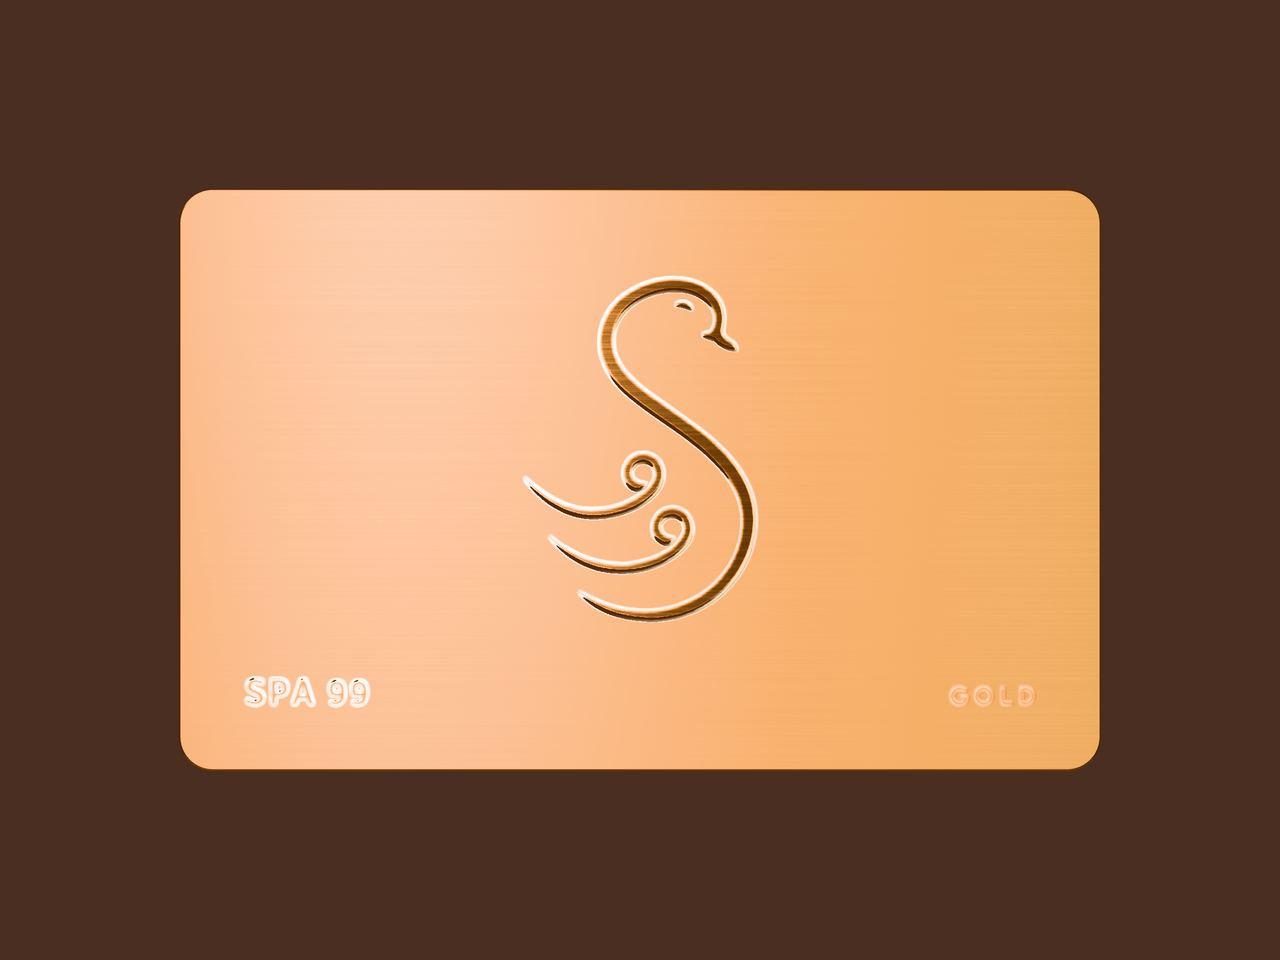
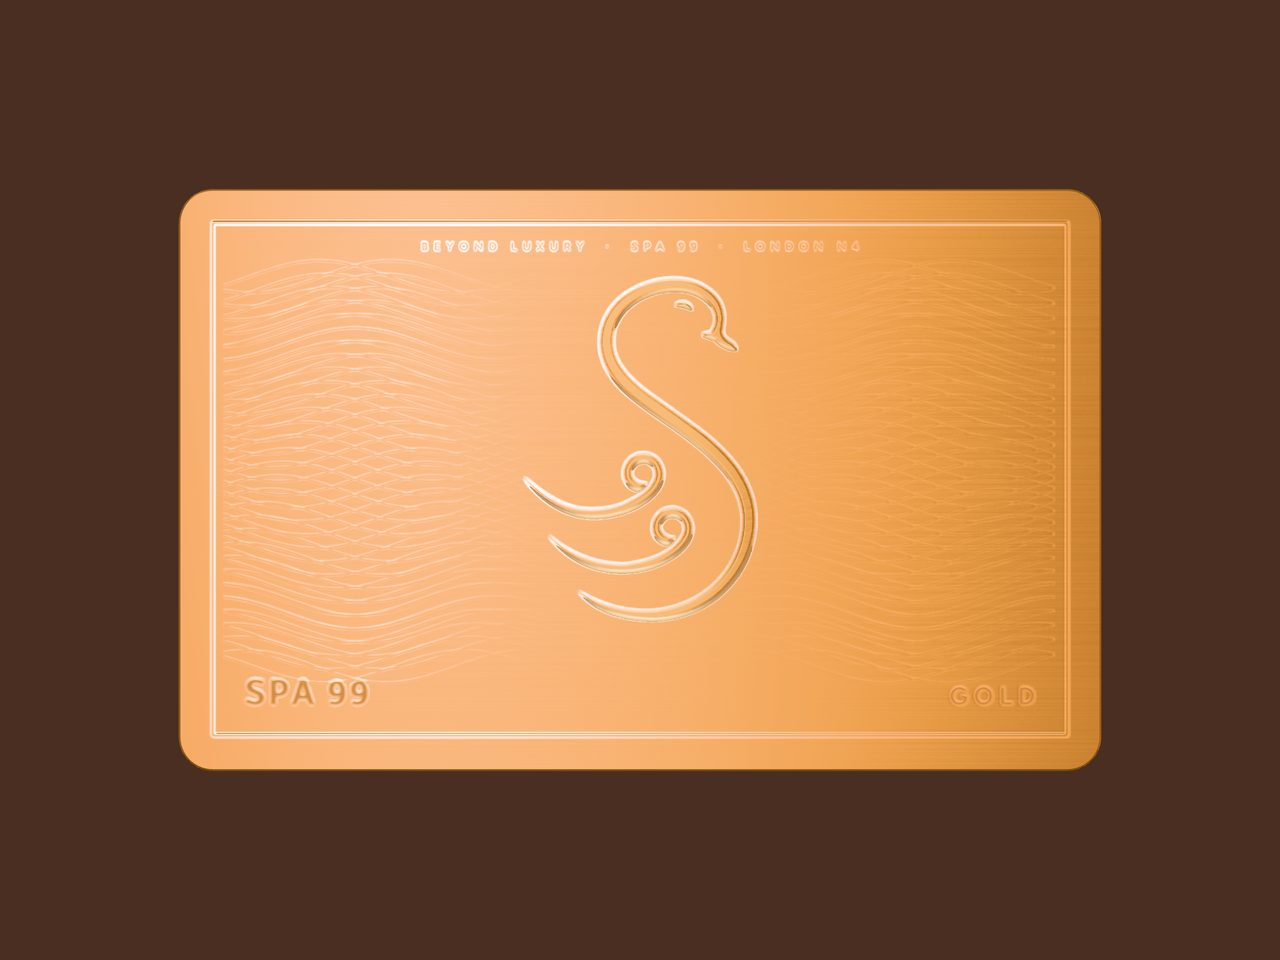
Gold Card polish: never clipped, brighter at every angle, guilloche, inset groove, micro text

Changed region(s): [[0.125, 0.1875, 0.875, 0.8125]]

diff --git a/common/static/common/js/gold-card-3d.js b/common/static/common/js/gold-card-3d.js
@@ -13,6 +13,7 @@ import * as THREE from '../vendor/three/three.module.min.js';
 const W = 85.6, H = 54, R = 3.18, BEV = 0.18, DEPTH = 0.44;       // millimetres: ISO ID-1
 const FW = 1024, FH = 646, BW = 512, BH = 323;                    // face and back map sizes
 const D2R = Math.PI / 180;
+const WALL = 0.8;                                                 // brightness of the studio walls (the floor of the card's light)
 const idle = (fn) => new Promise((resolve) => (window.requestIdleCallback ? requestIdleCallback(() => resolve(fn()), { timeout: 800 }) : setTimeout(() => resolve(fn()), 0)));
 
 function roundedRect(w, h, r) {
@@ -123,6 +124,33 @@ function roughCanvas(w, h, base, { smooth, rough, smoothV, roughV, dark = 0 }) {
   return c;
 }
 
+
+/** Fine detail on the face, in mm on a face of `ppm` px per mm: guilloche (crossing fine waves, only in two wings either side of the swan),
+ *  a groove 3 mm in from the edge, and micro text along the top. The same drawing is in guilloche.svg for the CSS card. */
+function detail(ctx, ppm, { wings, groove, micro }) {
+  const fw = W - 2 * BEV, fh = H - 2 * BEV;
+  if (wings) {
+    ctx.lineWidth = 0.1 * ppm;
+    for (let fam = 0; fam < 2; fam++) for (let k = 0; k < 30; k++) {
+      ctx.beginPath();
+      for (let x = 4; x <= fw - 4; x += 0.5) {
+        const y = 8 + k * 1.25 + 1.5 * Math.sin((x / 26) * Math.PI * 2 + k * 0.16 * (fam ? -1 : 1) + fam * 1.6);
+        x === 4 ? ctx.moveTo(x * ppm, y * ppm) : ctx.lineTo(x * ppm, y * ppm);
+      }
+      ctx.stroke();
+    }
+  }
+  if (groove) {
+    ctx.lineWidth = 0.34 * ppm;
+    const r = (R - BEV - 3) * ppm, x = 3 * ppm, y = 3 * ppm, w = (fw - 6) * ppm, h = (fh - 6) * ppm;
+    ctx.beginPath(); ctx.roundRect(x, y, w, h, Math.max(r, 1)); ctx.stroke();
+  }
+  if (micro) {
+    ctx.setTransform(1, 0, 0, 1, 0, 0); ctx.textBaseline = 'alphabetic'; ctx.font = `500 ${1.15 * ppm}px Figtree`;
+    track(ctx, 'BEYOND LUXURY  \u00B7  SPA 99  \u00B7  LONDON N4', fw / 2 * ppm, 5.6 * ppm, 0.42 * 1.15 * ppm, 'center');
+  }
+}
+
 /* ---------- the module ---------- */
 
 export function create(mount, { gsap, tokens, card }) {
@@ -154,10 +182,18 @@ export function create(mount, { gsap, tokens, card }) {
       ctx.font = `500 ${(1.6 / 0.7) * ppm}px Figtree`;
       track(ctx, 'GOLD', FW - 6 * ppm, FH - 6 * ppm, 0.24 * (1.6 / 0.7) * ppm, 'right');
     }));
+    const fine = await idle(() => {
+      const fw = W - 2 * BEV, wing = (x, y) => 1 - Math.max(0, Math.min(1, (x - 0.24 * fw) / (0.17 * fw))) * Math.max(0, Math.min(1, (0.76 * fw - x) / (0.17 * fw)));   // 1 in the wings, 0 behind the swan
+      const lines = mask(FW, FH, (ctx) => detail(ctx, ppm, { wings: true })), edge = mask(FW, FH, (ctx) => detail(ctx, ppm, { groove: true, micro: true }));
+      for (let i = 0; i < lines.length; i++) lines[i] *= wing(((i % FW) / ppm), 0);
+      return { lines, edge };
+    });
     const height = await idle(() => {
-      const raw = new Float32Array(swanMask.length);
-      for (let i = 0; i < raw.length; i++) raw[i] = swanMask[i] - 0.22 * textMask[i];
-      return blur(raw, FW, FH, 2);
+      const raw = new Float32Array(swanMask.length), thin = new Float32Array(swanMask.length);
+      for (let i = 0; i < raw.length; i++) { raw[i] = swanMask[i] - 0.22 * textMask[i]; thin[i] = -0.3 * fine.edge[i] - 0.1 * fine.lines[i]; }
+      const soft = blur(raw, FW, FH, 2), crisp = blur(thin, FW, FH, 1);
+      for (let i = 0; i < soft.length; i++) soft[i] += crisp[i];
+      return soft;
     });
     maps.faceNormal = canvasTexture(await idle(() => normalCanvas(height, FW, FH, 4.2)));
     const rc = await idle(() => roughCanvas(FW, FH, 0.21, { smooth: blur(swanMask, FW, FH, 1), smoothV: 0.1, rough: blur(textMask, FW, FH, 1), roughV: 0.3, dark: 0.95 }));
@@ -215,11 +251,14 @@ export function create(mount, { gsap, tokens, card }) {
       const m = new THREE.Mesh(new THREE.PlaneGeometry(w, h), new THREE.MeshBasicMaterial({ color: tok(hex).multiplyScalar(k) }));
       m.position.set(x, y, z); m.lookAt(0, 0, 0); studio.add(m);
     };
-    studio.add(new THREE.Mesh(new THREE.BoxGeometry(10, 6, 10), new THREE.MeshBasicMaterial({ color: tok('--color-gold-deep').multiplyScalar(1.1), side: THREE.BackSide })));
-    part(4, 1.4, '--color-led', 3, -2.5, 2.4, 3);        // key softbox
-    part(0.2, 5, '--color-cream', 6, 0, 0, 4.5);         // the sheen strip
-    part(0.15, 4, '--color-led', 8, 4, 0.5, -1);         // rim strip
-    const floor = new THREE.Mesh(new THREE.PlaneGeometry(8, 8), new THREE.MeshBasicMaterial({ color: tok('--color-caramel').multiplyScalar(0.6) }));
+    studio.add(new THREE.Mesh(new THREE.BoxGeometry(10, 6, 10), new THREE.MeshBasicMaterial({ color: tok('--color-gold-light').multiplyScalar(WALL), side: THREE.BackSide })));   // warm walls: the face never meets black
+    part(2.6, 0.9, '--color-led', 1.5, -2.5, 2.4, 3);        // key softbox
+    part(0.2, 5, '--color-cream', 3.5, 0, 0, 4.5);         // the sheen strip
+    part(0.15, 4, '--color-led', 5, 4, 0.5, -1);         // rim strip
+    part(1.6, 4, '--color-gold-light', 1.1, -4.6, 0, 0.5); part(1.6, 4, '--color-gold-light', 1.1, 4.6, 0, 1);   // side fills: a soft panel is always in reach at grazing angles
+    part(5, 5, '--color-gold-light', 1.2, 0, 2.9, 0.5);  // overhead fill
+    part(6, 3, '--color-gold-light', 1.6, 0, 0, -4.6);   // behind: lights the back of the card
+    const floor = new THREE.Mesh(new THREE.PlaneGeometry(8, 8), new THREE.MeshBasicMaterial({ color: tok('--color-cream').multiplyScalar(0.4) }));
     floor.rotation.x = -Math.PI / 2; floor.position.y = -2.9; studio.add(floor);
     pmrem = new THREE.PMREMGenerator(renderer);
     const rt = pmrem.fromScene(studio, 0.02);
@@ -242,8 +281,9 @@ export function create(mount, { gsap, tokens, card }) {
       normalMap: maps.faceNormal, roughnessMap: maps.faceRough, metalnessMap: maps.faceRough, emissive: tok('--color-gold-light'), emissiveMap: maps.draw, emissiveIntensity: 0,
     }));
     mats.back = own(new THREE.MeshPhysicalMaterial({
-      color: tok('--color-gold-deep'), metalness: 1, roughness: 1, clearcoat: 0.2, clearcoatRoughness: 0.3, normalMap: maps.backNormal, roughnessMap: maps.backRough,
+      color: tok('--color-gold-deep').lerp(tok('--color-gold-shade'), 1), metalness: 1, roughness: 1, envMapIntensity: 1.9, clearcoat: 0.2, clearcoatRoughness: 0.3, normalMap: maps.backNormal, roughnessMap: maps.backRough,
     }));
+    Object.assign(mats.face, { envMap: scene.environment, envMapIntensity: 0.9 }); mats.back.envMap = mats.edge.envMap = scene.environment; mats.edge.envMapIntensity = 0.6;   // per-material intensity needs the map set on the material (three r163+)
     const faceGeo = own(faceGeometry());
     const front = new THREE.Mesh(faceGeo, mats.face); front.position.z = zf;
     const back = new THREE.Mesh(faceGeo, mats.back); back.rotation.y = Math.PI; back.position.z = -zf;
@@ -251,7 +291,7 @@ export function create(mount, { gsap, tokens, card }) {
     group = new THREE.Group(); group.add(body, front, back);
     pivot = new THREE.Group(); pivot.add(group);
     scene.add(pivot);
-    light = new THREE.DirectionalLight(tok('--color-led'), 1.4);
+    light = new THREE.DirectionalLight(tok('--color-led'), 0.6);
     light.position.set(-30, 40, 120);
     scene.add(light);
   }
@@ -261,7 +301,7 @@ export function create(mount, { gsap, tokens, card }) {
     const turn = card.ry + card.turn + card.tiltY, up = card.rx + card.tiltX;
     group.rotation.set(-up * D2R, turn * D2R, 0);
     pivot.rotation.z = -card.roll * D2R;
-    pivot.position.y = -((card.lift + card.drop + card.bob) / 100) * H;
+    pivot.position.y = -(card.bob / 100) * H;                      // lift and drop move the whole mount in CSS (gc.render), so the canvas moves with the card
     mats.face.emissiveIntensity = card.line * card.draw > 0 ? card.line * 1.15 : 0;
     const k = card.relief;
     mats.face.normalMap && mats.face.normalScale.set(k, k);
@@ -271,11 +311,18 @@ export function create(mount, { gsap, tokens, card }) {
     drawLine();
   }
 
+  /** The canvas is wider than the card (1/0.72) and taller than a 4:3 frame, so the turn, tilt and float never reach its edge. The card stays 72% of the canvas width at any aspect. */
+  function fit(aspect) {
+    camera.aspect = aspect;
+    camera.fov = 2 * Math.atan(W / 0.72 / aspect / 2 / camDistance()) / D2R;
+    camera.updateProjectionMatrix();
+  }
+
   function size() {
     const w = box.clientWidth || 1, h = box.clientHeight || 1;
     renderer.setPixelRatio(dpr);
     renderer.setSize(w, h, false);
-    camera.aspect = w / h; camera.updateProjectionMatrix();
+    fit(w / h);
   }
 
   function render() {
@@ -303,7 +350,7 @@ export function create(mount, { gsap, tokens, card }) {
     card.sheen = 0.13; card.draw = 1; card.line = 0; card.relief = 1; card.fade = 1;
     renderer.setClearColor(tok('--color-espresso'), 1);
     renderer.setPixelRatio(1); renderer.setSize(2560, 1920, false);
-    camera.aspect = 4 / 3; camera.updateProjectionMatrix();
+    fit(4 / 3);
     render();
     window.__gcExport = canvas.toDataURL('image/png');
     canvas.toBlob((b) => { const a = Object.assign(document.createElement('a'), { href: URL.createObjectURL(b), download: 'gold-card-master.png' }); a.click(); });

diff --git a/common/static/common/css/scenes.css b/common/static/common/css/scenes.css
@@ -214,7 +214,7 @@ html.lenis, html.lenis body { height: auto; }
 }
 
 /* ---------- R6b Gold: the 3D card (docs/design/GOLD-CARD-3D.md). About 85% of a screen at 1440; card on one half, words on the other ---------- */
-.gold-scene { background: var(--color-bg-inverse); overflow: clip; min-height: 0; }
+.gold-scene { position: relative; z-index: 2; background: var(--color-bg-inverse); overflow-x: clip; min-height: 0; }   /* the card floats over the sections around it: never clipped at the section edge (overflow-x only guards the page width) */
 .gold-scene .scene-stage { min-height: 0; justify-content: center; padding-block: var(--space-5); }
 .gold-grid { row-gap: var(--space-5); align-items: center; }
 .gold-grid > .gold-card { grid-column: 1 / -1; justify-self: center; order: -1; }
@@ -255,8 +255,8 @@ html.motion .gc-stage { position: absolute; inset: 0; perspective: calc(var(--gc
 .gc-card { transform: rotateX(8deg) rotateY(-25deg); }
 .gc-front, .gc-back { position: absolute; inset: 0; border-radius: var(--gc-r); overflow: hidden; backface-visibility: hidden; -webkit-backface-visibility: hidden; }
 .gc-front { transform: translateZ(var(--gc-t)); }
-.gc-back { transform: rotateY(180deg) translateZ(var(--gc-t)); background: var(--color-gold-deep) url("../img/swan-pattern.svg"); background-size: calc(var(--gc-w) * 0.1168) auto; display: grid; place-items: end center; }
-.gc-back::after { content: ""; position: absolute; inset: 0; background: linear-gradient(118deg, var(--color-gold-deep), transparent 55%, var(--color-gold-deep)); opacity: 0.6; }
+.gc-back { transform: rotateY(180deg) translateZ(var(--gc-t)); background: color-mix(in srgb, var(--color-gold-deep) 45%, var(--color-gold-shade)) url("../img/swan-pattern.svg"); background-size: calc(var(--gc-w) * 0.1168) auto; display: grid; place-items: end center; }
+.gc-back::after { content: ""; position: absolute; inset: 0; background: linear-gradient(118deg, var(--color-gold-deep), transparent 55%, var(--color-gold-deep)); opacity: 0.32; }
 .gc-back-line { position: relative; z-index: 1; margin-bottom: calc(var(--gc-w) * 0.07); font-size: calc(var(--gc-w) * 0.021); letter-spacing: 0.2em; text-transform: uppercase; font-weight: 500; color: var(--color-gold-shade); }
 .gc-side { position: absolute; background: linear-gradient(to bottom, var(--color-gold-shade), var(--color-gold-light) 50%, var(--color-gold-shade)); }
 .gc-side--l, .gc-side--r { top: var(--gc-r); bottom: var(--gc-r); width: calc(var(--gc-t) * 2); }
@@ -268,6 +268,9 @@ html.motion .gc-stage { position: absolute; inset: 0; perspective: calc(var(--gc
 .gc-metal { position: absolute; inset: 0;
   background: repeating-linear-gradient(0deg, color-mix(in srgb, var(--color-cream) 3%, transparent) 0 1px, transparent 1px 3px),
               linear-gradient(118deg, var(--color-gold-shade) 0%, var(--color-gold-metal) 28%, var(--color-gold-light) 48%, var(--color-gold-metal) 66%, var(--color-gold-shade) 100%); }
+.gc-guil { position: absolute; inset: 0; background: url("../img/guilloche.svg") center / 100% 100% no-repeat; opacity: 0.5; }
+.gc-border { position: absolute; inset: 3.5%; border-radius: calc(var(--gc-r) * 0.7); border: 1px solid color-mix(in srgb, var(--color-espresso) 28%, transparent); box-shadow: inset 0 0 0 1px color-mix(in srgb, var(--color-gold-light) 55%, transparent), 0 1px 0 color-mix(in srgb, var(--color-gold-light) 60%, transparent); }
+.gc-micro { position: absolute; left: 0; right: 0; top: 7.4%; text-align: center; font-family: var(--font-body); font-weight: 500; font-size: calc(var(--gc-w) * 0.0125); line-height: 1; letter-spacing: 0.34em; text-transform: uppercase; white-space: nowrap; color: color-mix(in srgb, var(--color-espresso) 38%, transparent); text-shadow: 0 1px 0 color-mix(in srgb, var(--color-gold-light) 50%, transparent); }
 .gc-swan { position: absolute; left: 50%; top: 14.8%; height: 59.3%; aspect-ratio: 330 / 484; transform: translateX(-50%); }
 .gc-swan svg { position: absolute; inset: 0; width: 100%; height: 100%; }
 .gc-swan .mark-fill { fill: url(#gc-polish); }
@@ -276,7 +279,7 @@ html.motion .gc-stage { position: absolute; inset: 0; perspective: calc(var(--gc
 .gc-text { position: absolute; bottom: calc(var(--gc-w) * 0.07); font-family: var(--font-display); font-weight: 600; line-height: 1; color: color-mix(in srgb, var(--color-espresso) 45%, transparent); text-shadow: 0 1px 0 color-mix(in srgb, var(--color-gold-light) 45%, transparent); }
 .gc-text--l { left: calc(var(--gc-w) * 0.07); font-size: calc(var(--gc-w) * 0.04); letter-spacing: 0.06em; }
 .gc-text--r { right: calc(var(--gc-w) * 0.07); font-family: var(--font-body); font-weight: 500; font-size: calc(var(--gc-w) * 0.0245); letter-spacing: 0.24em; margin-right: -0.24em; }
-.gc-shade { position: absolute; inset: 0; background: var(--color-espresso); opacity: 0.55; }
+.gc-shade { position: absolute; inset: 0; background: var(--color-espresso); opacity: 0.3; }
 .gc-sheen { position: absolute; top: 0; bottom: 0; left: 30%; width: 40%; transform: translateX(-130%) skewX(-14deg);
   background: linear-gradient(90deg, transparent, color-mix(in srgb, var(--color-cream) 34%, transparent) 50%, transparent); }
 .gc-pool { position: absolute; left: 15%; width: 70%; top: 100%; height: 18%; margin-top: 4%; background: radial-gradient(closest-side, var(--color-glow), transparent); }
@@ -284,13 +287,14 @@ html.motion .gc-card, html.motion .gc-sheen { will-change: transform; }
 
 /* the canvas layer (gold-card-3d.js): only present once three.js is ready; the CSS card stays under it until it has faded in */
 .gold-card.has-gl .gc-gl { display: block; }
+.gc-gl { aspect-ratio: 10 / 9; }   /* taller than the old 4:3 so the turn, tilt and float never reach the canvas edge; pointer-events none via .gold-card */
 .gc-gl canvas { display: block; width: 100%; height: 100%; opacity: 0; }
 .gold-card.is-gl .gc-stage { visibility: hidden; }
 
 /* Gold Card page hero (G1): words left, the card right; phone: card on top */
 .gold-hero-grid > .gold-card { grid-column: 1 / -1; justify-self: center; order: -1; --gc-w: min(82vw, 24rem); }
 @media (min-width: 64em) { .gold-hero-grid > .gold-card { grid-column: 7 / -1; order: 0; --gc-w: min(42rem, 46vw); } }
-.gold-hero { position: relative; overflow-x: clip; min-height: var(--scene-h); display: flex; align-items: center; padding-block: calc(var(--header-h) + var(--space-5)) var(--space-6); }
+.gold-hero { position: relative; z-index: 2; overflow-x: clip; min-height: var(--scene-h); display: flex; align-items: center; padding-block: calc(var(--header-h) + var(--space-5)) var(--space-6); }
 .gold-hero > .container { position: relative; z-index: 2; }
 html.motion .gold-hero .glow { z-index: 1; }
 html.motion .gold-hero [data-rise] { opacity: 0; }

diff --git a/common/static/common/js/gold-card.js b/common/static/common/js/gold-card.js
@@ -26,15 +26,16 @@ export function goldCard(mount, scene, { desktop, fine, ctx }) {
   const el = { card: q('.gc-card'), float: q('.gc-float'), shade: q('.gc-shade'), sheen: q('.gc-sheen'), pool: q('.gc-pool') };
   gc.render = () => {
     mount.style.opacity = gc.fade;
+    mount.style.transform = gc.lift + gc.drop ? `translate3d(0, ${gc.lift + gc.drop}%, 0)` : '';   // the whole mount (canvas, pool, card) moves, so nothing is ever cut by a canvas edge
     if (gc.gl) return;
     const ry = gc.ry + gc.turn + gc.tiltY, a = ((ry % 360) + 540) % 360 - 180, n = a / (25 * k);
     el.card.style.transform = `rotateX(${gc.rx + gc.tiltX}deg) rotateY(${ry}deg)`;
-    el.float.style.transform = `translate3d(0, ${gc.lift + gc.drop + gc.bob}%, 0) rotate(${gc.roll}deg)`;
-    el.shade.style.opacity = n < 0 ? 0.55 * Math.min(1, -n) : 0.25 * Math.min(1, n);
+    el.float.style.transform = `translate3d(0, ${gc.bob}%, 0) rotate(${gc.roll}deg)`;
+    el.shade.style.opacity = n < 0 ? 0.3 * Math.min(1, -n) : 0.12 * Math.min(1, n);
     el.sheen.style.transform = `translateX(${gc.sheen * 130}%) skewX(-14deg)`;
     el.pool.style.opacity = 0.85 + 0.15 * (gc.bob / 1.6);
   };
-  cleanups.push(() => { mount.style.opacity = ''; ['card', 'float', 'shade', 'sheen', 'pool'].forEach((n) => el[n].removeAttribute('style')); });
+  cleanups.push(() => { mount.style.opacity = ''; mount.style.transform = ''; ['card', 'float', 'shade', 'sheen', 'pool'].forEach((n) => el[n].removeAttribute('style')); });
 
   // Swan: the CSS card draws with DrawSVG, the canvas reads the same moments from the proxy. windows are [from, to] in timeline units.
   gc.swan = (tl, { draw, relief, line }, ease) => {

diff --git a/common/templates/common/_gold_card.html b/common/templates/common/_gold_card.html
@@ -9,6 +9,7 @@
         <div class="gc-back"><span class="gc-back-line">Beyond Luxury</span></div>
         <div class="gc-front">
           <div class="gc-metal"></div>
+          <div class="gc-guil"></div><div class="gc-border"></div><span class="gc-micro">Beyond Luxury &nbsp;&middot;&nbsp; Spa 99 &nbsp;&middot;&nbsp; London N4</span>
           <div class="gc-swan"><div class="gc-swan-shadow">{% include "common/_mark.html" %}</div>{% include "common/_mark_draw.html" %}</div>
           <span class="gc-text gc-text--l">SPA 99</span><span class="gc-text gc-text--r">GOLD</span>
           <div class="gc-shade"></div>
